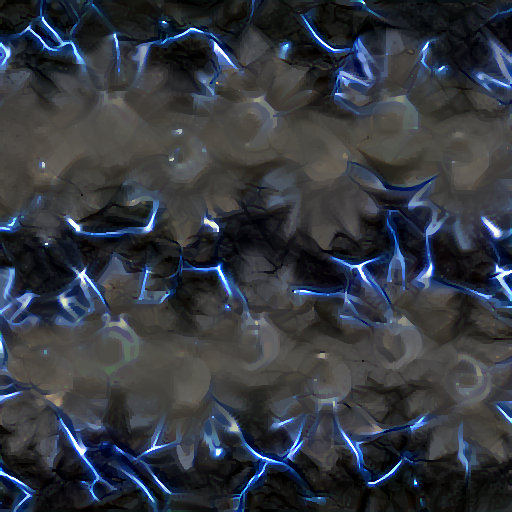
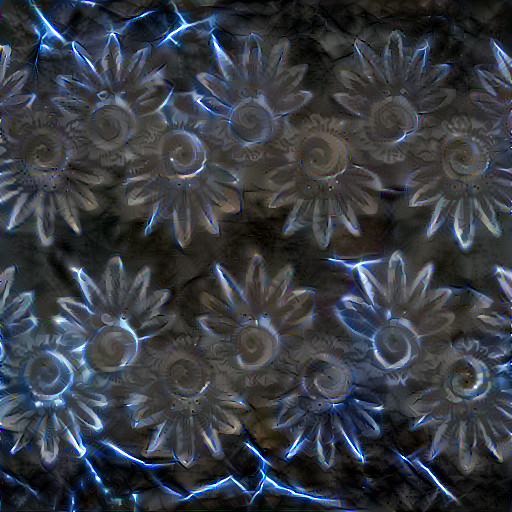
bachelor changes

diff --git a/main.py b/main.py
@@ -163,11 +163,11 @@ def prep_train(content_image, style_image, extractor):
     content_targets = extractor(content_image)['content']
 
     image = tf.Variable(content_image)
-    opt = tf.optimizers.Adam(learning_rate=0.004, beta_1=0.99, epsilon=1e-1)
+    opt = tf.optimizers.Adam(learning_rate=0.0002, beta_1=0.99, epsilon=1e-1)
 
-    style_weight = 1e-2
+    style_weight = 1e-1
     content_weight = 1e-1
-    total_variation_weight = 10
+    total_variation_weight = 0.1
     return image, opt, style_weight, content_weight, total_variation_weight, content_targets, style_targets
 
 def high_pass_x_y(image):
@@ -219,8 +219,8 @@ stylefiles = [f for f in os.listdir("./style/")]
 s = 2
 c = 0
 
-content_img_name = "content3.png"
-style_img_name = "blueglow.jpeg"
+content_img_name = "muster.png"
+style_img_name = "WCTstyleCustom.jpg"
 
 content_name  = content_img_name.split('.')[0]
 style_name = style_img_name.split('.')[0]
@@ -244,7 +244,6 @@ style_image = load_img(style_path)
 
 extractor = StyleContentModel(style_layers, content_layers)
 
-
 image, opt, style_weight, content_weight, total_variation_weight, content_targets, style_targets = \
     prep_train(content_image, style_image, extractor)
 
@@ -252,7 +251,7 @@ image, opt, style_weight, content_weight, total_variation_weight, content_target
 
 start = time.time()
 
-epochs = 100
+epochs = 150
 steps_per_epoch = 100
 
 step = 0
